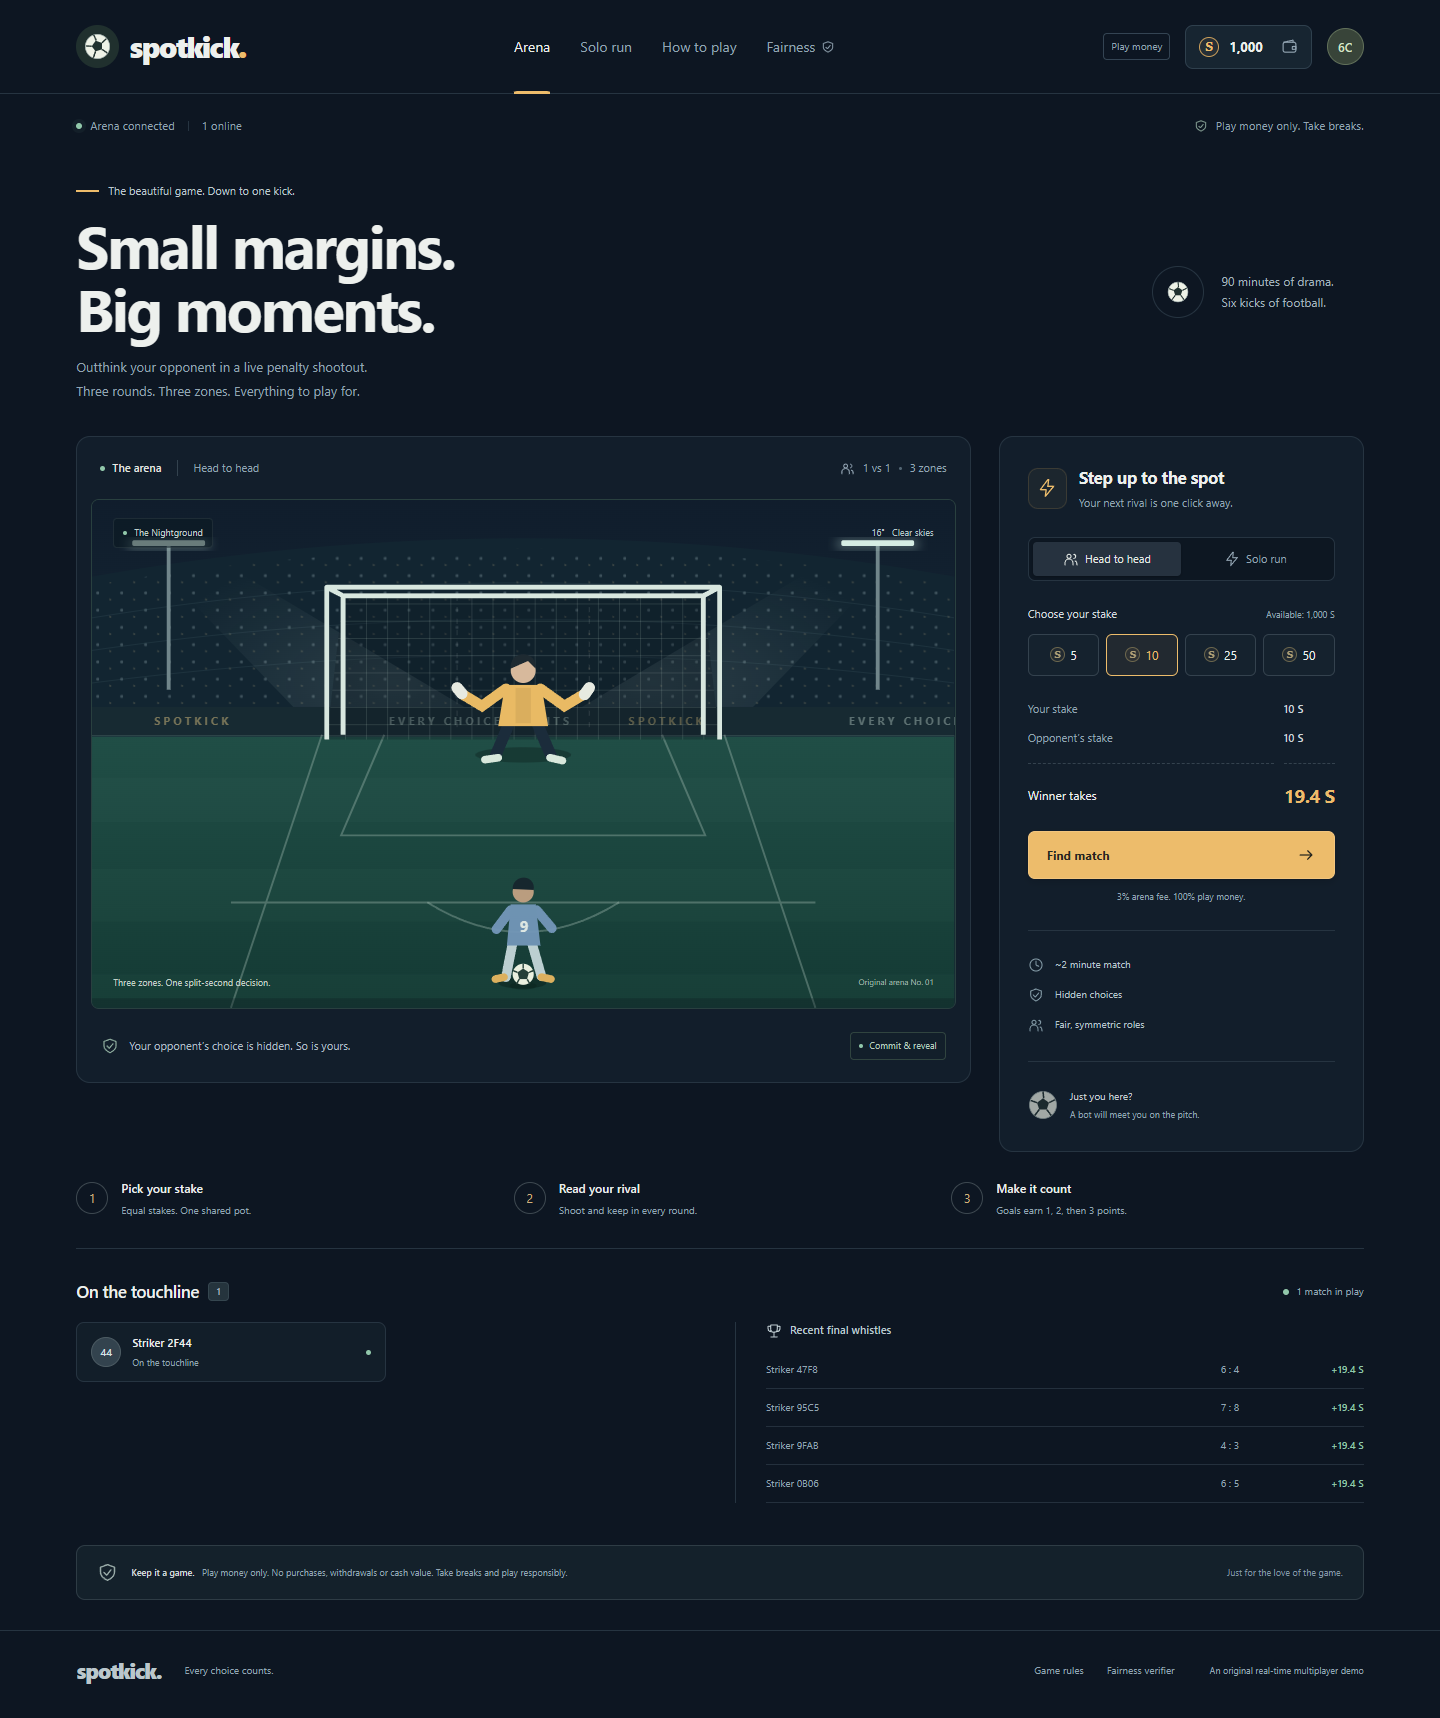
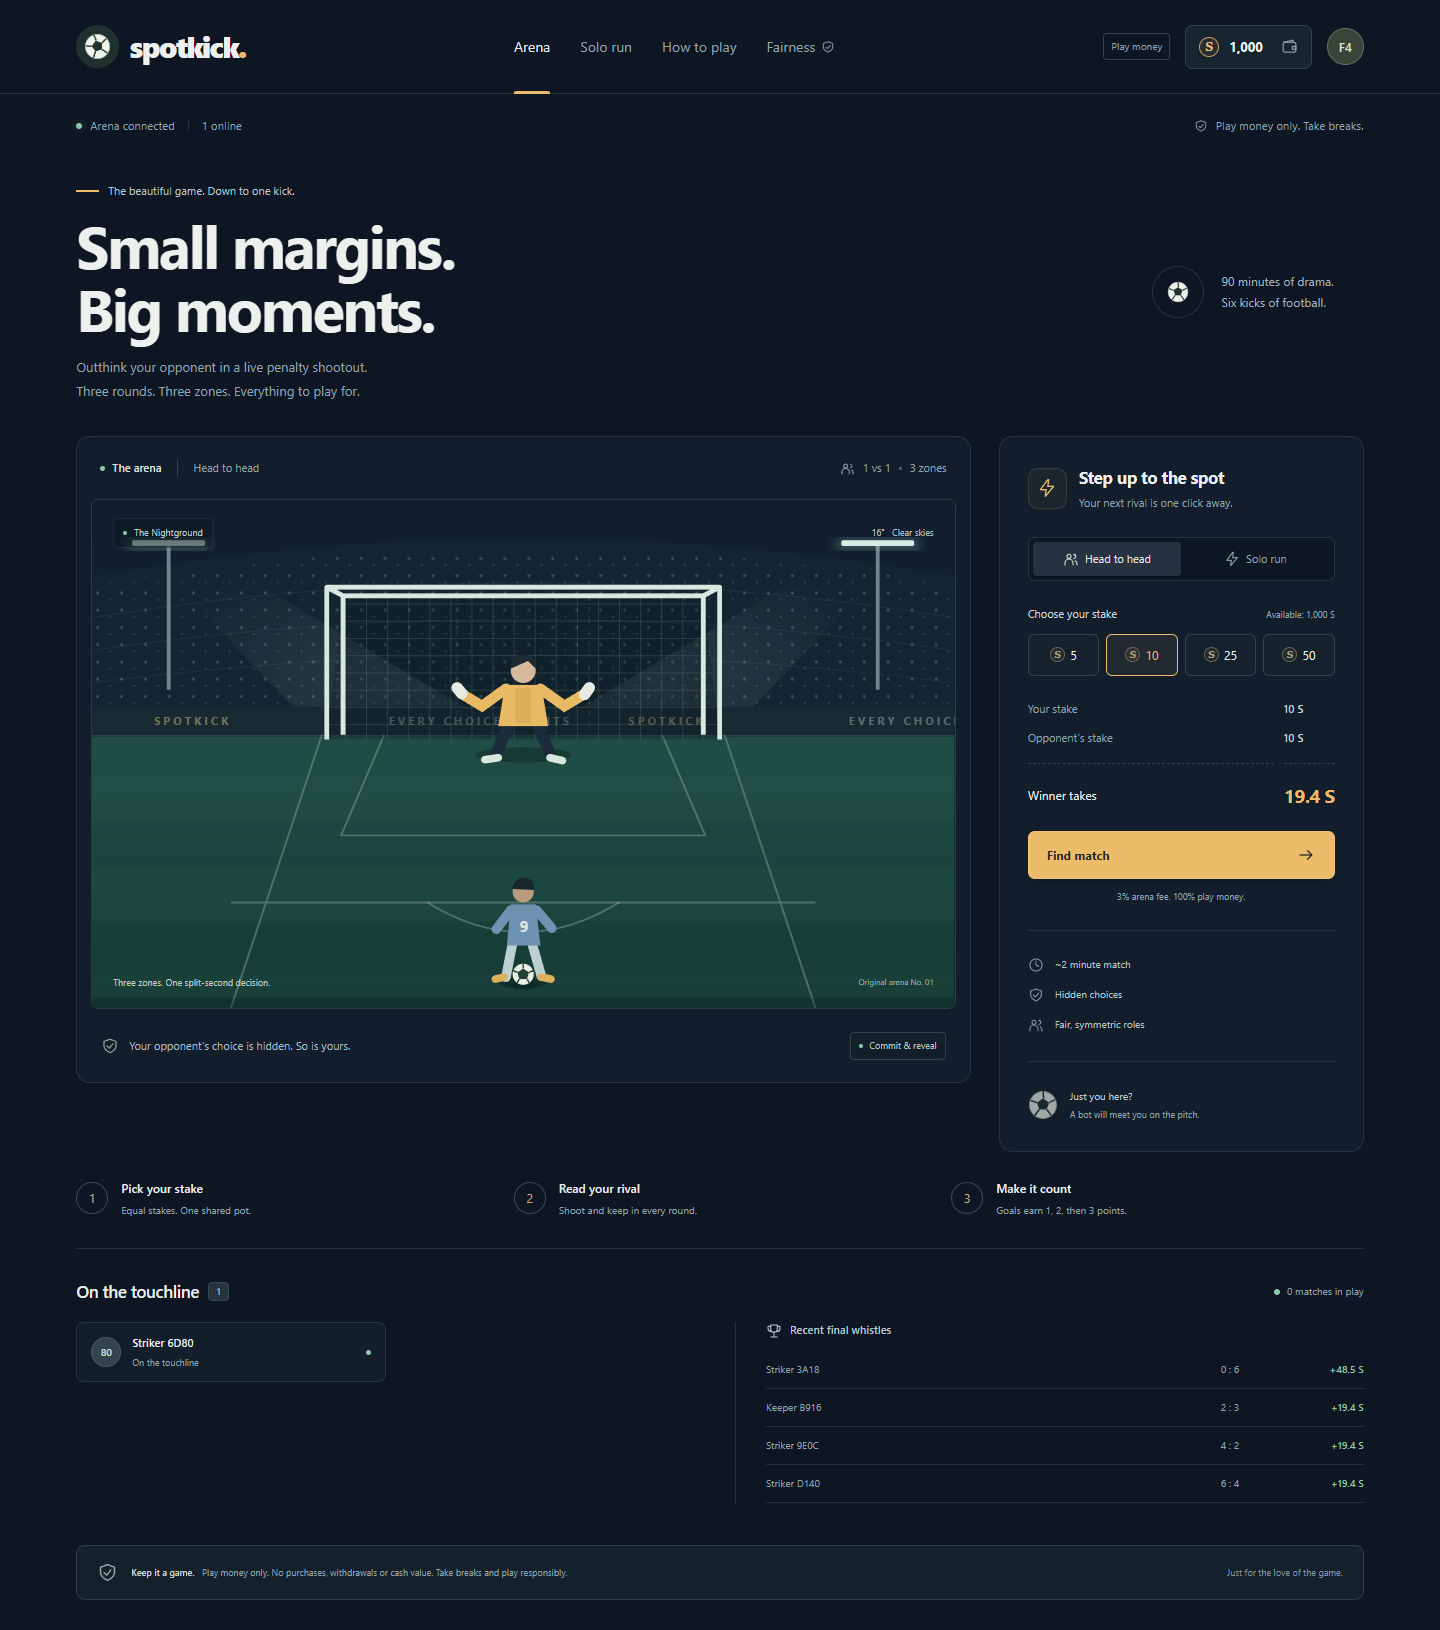
docs: publish Docker acceptance evidence and refreshed portfolio previews

diff --git a/docs/GUIA_PUBLICACION.md b/docs/GUIA_PUBLICACION.md
@@ -1,6 +1,6 @@
 # SpotKick: pasos para validar y publicar la demo del portfolio
 
-Esta guía está escrita para PowerShell en Windows y el repositorio entregado. Incluye acciones que debes ejecutar tú; no afirma que Docker, el despliegue o GitHub Actions ya se hayan validado.
+Esta guía está escrita para PowerShell en Windows y el repositorio entregado. El build y las pruebas locales con Docker ya se han ejecutado; consulta los resultados en [VERIFICATION.md](VERIFICATION.md). El despliegue público y GitHub Actions remoto siguen pendientes.
 
 El objetivo es una demo que un equipo de ingeniería pueda abrir, jugar y revisar. El orden es: entorno reproducible → pruebas automáticas → pruebas manuales → repositorio público/CI → despliegue → presentación.
 
@@ -64,7 +64,9 @@ pnpm exec playwright install chromium
 
 ## 3. Arranca una instalación Docker separada
 
-He incluido `compose.acceptance.yaml`. Usa puertos **3100/3101**, un nombre de proyecto propio y volúmenes independientes de la demo normal. No modifica los puertos 3000/3001 del Compose original. La API secundaria del perfil de carga usa 3102.
+He incluido `compose.acceptance.yaml`. Usa puertos **3180/3101**, un nombre de proyecto propio y volúmenes independientes de la demo normal. No modifica los puertos 3000/3001 del Compose original. La API secundaria del perfil de carga usa 3102.
+
+La web usa 3180 para evitar el servicio que ya ocupa 3100 en esta máquina. Abre exactamente `http://127.0.0.1:3180`, el origen permitido por CORS. Si cambias el puerto, configura también `SPOTKICK_WEB_PORT` y `SPOTKICK_WEB_ORIGIN` con el mismo origen y vuelve a crear los servicios.
 
 En la misma ventana de PowerShell:
 
@@ -113,9 +115,9 @@ Comprueba:
 Después:
 
 ```powershell
-Invoke-RestMethod 'http://localhost:3101/health'
-(Invoke-WebRequest 'http://localhost:3100' -Method Head).StatusCode
-Start-Process 'http://localhost:3100'
+Invoke-RestMethod 'http://127.0.0.1:3101/health'
+(Invoke-WebRequest 'http://127.0.0.1:3180' -Method Head).StatusCode
+Start-Process 'http://127.0.0.1:3180'
 ```
 
 **Resultado esperado:** health devuelve `ok: true`, la web responde 200 y el navegador conecta al arena. Si falla un puerto, identifica qué aplicación lo ocupa; no cierres procesos que no hayas identificado.
@@ -128,7 +130,7 @@ docker compose logs --follow api web
 
 Usa una segunda terminal con las variables de Compose repetidas. Ctrl+C sale del seguimiento de logs; los contenedores iniciados con `-d` siguen funcionando.
 
-**Punto de control:** aquí validas por primera vez el empaquetado Linux/Docker, que estaba pendiente. La preview nativa de Windows por sí sola no demuestra que estas imágenes funcionen.
+**Punto de control:** esto valida el empaquetado Linux/Docker en tu instalación. Las imágenes, migraciones y arranque ya se probaron localmente el 6 de noviembre de 2026; repetirlo en el host final sigue siendo parte de la publicación.
 
 ## 4. Ejecuta las comprobaciones automáticas
 
@@ -187,17 +189,19 @@ Un test que falla por conexión, timeout o falta de recursos **no** cuenta como 
 Mantén la API/web de aceptación en marcha y configura el navegador de prueba:
 
 ```powershell
-$env:WEB_URL = 'http://localhost:3100'
+$env:WEB_URL = 'http://127.0.0.1:3180'
+$env:API_URL = 'http://127.0.0.1:3101'
 Remove-Item Env:PLAYWRIGHT_CHANNEL -ErrorAction SilentlyContinue
 pnpm test:e2e
 ```
 
 Eliminar esa variable solo selecciona el Chromium que acabas de instalar. No borra archivos. Si prefieres Chrome instalado, puedes usar `$env:PLAYWRIGHT_CHANNEL = 'chrome'`.
 
-**Resultado esperado actual:** 2 tests aprobados:
+**Resultado esperado actual:** 3 tests aprobados:
 
 1. Partida completa contra bot, recarga, verificación del transcript, saldo liquidado y journal.
 2. Disparo de solo, fin de sesión/cash-out cuando corresponde y verificación en navegador.
+3. PvP con dos invitados autenticados (navegador y cliente HTTP): compromiso pendiente conservado tras recarga, seis intercambios, pago de 48,50 S y saldos de ambos participantes.
 
 No ejecutes k6 ni pongas otros humanos en cola mientras se prueba el bot: podrían emparejarse con el invitado del test. La duración varía por muerte súbita.
 
@@ -415,7 +419,7 @@ La configuración de aceptación eleva el límite de creación de invitados solo
 
 ```powershell
 New-Item -ItemType Directory -Force test-results | Out-Null
-k6 run -e API_URL=http://localhost:3101 -e VUS=4 -e DURATION=1s --summary-export test-results/k6-smoke.json tests/load/matches.js
+k6 run -e API_URL=http://127.0.0.1:3101 -e VUS=4 -e DURATION=1s --summary-export test-results/k6-smoke.json tests/load/matches.js
 ```
 
 `DURATION=1s` inicia las iteraciones durante un segundo; la finalización de partidos continúa durante el periodo de gracia. No significa que una partida dure un segundo.
@@ -429,13 +433,13 @@ En la terminal con las variables Compose configuradas:
 ```powershell
 docker compose --profile load up -d --build api2
 docker compose --profile load ps
-Invoke-RestMethod 'http://localhost:3102/health'
+Invoke-RestMethod 'http://127.0.0.1:3102/health'
 ```
 
 Después:
 
 ```powershell
-k6 run -e API_URLS=http://localhost:3101,http://localhost:3102 -e VUS=12 -e DURATION=1s --summary-export test-results/k6-two-apis.json tests/load/matches.js
+k6 run -e API_URLS=http://127.0.0.1:3101,http://127.0.0.1:3102 -e VUS=12 -e DURATION=1s --summary-export test-results/k6-two-apis.json tests/load/matches.js
 ```
 
 **Esperado:** los doce jugadores completan y cada wallet coincide con su liquidación. Como los clientes se reparten entre instancias, esto ejercita la coordinación compartida y los broadcasts mediante Redis.
@@ -453,7 +457,7 @@ Ese p95 mide el partido completo, con animación y muerte súbita. No lo publiqu
 Si los smokes pasan, prueba diez jugadores durante un minuto:
 
 ```powershell
-k6 run -e API_URLS=http://localhost:3101,http://localhost:3102 -e VUS=10 -e DURATION=1m --summary-export test-results/k6-one-minute.json tests/load/matches.js
+k6 run -e API_URLS=http://127.0.0.1:3101,http://127.0.0.1:3102 -e VUS=10 -e DURATION=1m --summary-export test-results/k6-one-minute.json tests/load/matches.js
 ```
 
 En otra terminal con el mismo contexto Compose:

diff --git a/docs/VERIFICATION.md b/docs/VERIFICATION.md
@@ -1,6 +1,6 @@
 # Verification evidence
 
-Verified locally on 5 November 2026. These are executed checks, rather than an estimate of production capacity.
+Verified locally on 5–6 November 2026. These are executed checks, rather than an estimate of production capacity.
 
 | Check | Result |
 |---|---|
@@ -16,15 +16,14 @@ Verified locally on 5 November 2026. These are executed checks, rather than an e
 | Browser rendering | Desktop and mobile captures; no page JavaScript errors or horizontal overflow at 390px |
 | Runtime logs after final startup/load | No API runtime errors |
 | `git diff --check` | Passed |
-| Acceptance Compose configuration | Official standalone Compose 5.7.0 parsed both files; replacement ports 3100/3101/3102, load profile and browser API build URL checked. Containers not started. |
+| Docker acceptance | API/web production images built; migrations exited 0; PostgreSQL, Redis and both API instances healthy; web HTTP 200 on 127.0.0.1:3180 |
 
 The load figures include complete match duration, including animation pauses and occasional sudden death. They are small smoke runs on one workstation, not a saturation benchmark or a latency SLA. JSON summaries are saved as [single-instance results](load-smoke.json) and [two-instance results](load-two-instances.json).
 
-Local execution used Node 24.17, PostgreSQL 18 and a Redis 8.10 Windows build in an isolated workspace. Docker/CI target Node 22, PostgreSQL 17 and Redis 7.4; the used database, crypto and adapter features are compatible, but those container runtimes have not been executed locally.
+Initial native execution used Node 24.17, PostgreSQL 18 and Redis 8.10. On 6 November, the production Docker images were built and run with Node 22.23.4, PostgreSQL 17 and Redis 7.4.12. All seven unit tests, six real integration tests and three TypeScript checks passed inside the API image. Docker Desktop 4.98.0 / Engine 29.9.2 / WSL 3.0.3 hosted the acceptance stack.
 
 ## Not executed here
 
-- Docker Engine/Desktop is not installed on this host. A standalone Compose CLI was used only to validate configuration. The migration job, multi-stage images and CI image-build step are provided; image builds and `docker compose up --build` still need execution on a Docker host.
 - GitHub Actions has not run remotely; this repository is local and has not been pushed.
 - Sentry instrumentation builds and initializes, with reporting disabled when no DSN is configured. No real event ingestion was tested.
 - A broad accessibility audit, Lighthouse benchmark, network partition test and failover under sustained load have not been performed.
@@ -36,3 +35,14 @@ Local execution used Node 24.17, PostgreSQL 18 and a Redis 8.10 Windows build in
 - [Completed match](preview-match.png)
 
 All screenshots come from the running application with real API/Redis/PostgreSQL interactions. Lobby counts and results reflect actual local test sessions.
+
+## Docker acceptance, 6 November
+
+- Twelve k6 players split across API ports 3101/3102: 12/12 completed, 12/12 wallet assertions passed, all 36 checks passed, zero failed HTTP requests. Complete-match p95 was 15.10 seconds; HTTP request p95 was 1.32 seconds. [Saved summary](load-docker-two-instances.json).
+- An earlier run started before the second API was ready and failed. Its [summary is retained](load-docker-cold-start-failed.json). The script now checks every API health endpoint before starting load. The passing run used healthy services and no simultaneous image build.
+- Browser checks at 360, 390, 768, 1280 and 1440 px found no horizontal overflow. Wallet focus remained within the dialog; Escape closed it. No page JavaScript errors were observed in this audit.
+- Unauthenticated access returned 401; an invalid stake returned 400 without changing the 100,000-unit guest balance. The solo browser verifier rejected an altered hash and accepted the original.
+- An exploratory two-browser PvP test reached a verified 6:0 result with correct payouts but timed out in teardown. A repeat failed guest readiness under workstation contention. The recovery regression now uses one browser and a second authenticated HTTP participant, exercising the same public commit/reveal protocol without the second browser context.
+Final Docker browser suite: **3/3 Playwright tests passed** (bot/reload/ledger/keyboard; browser plus HTTP rival with pending commitment and both payouts; solo/browser verification). The PvP recovery case completed in 16.7 seconds. Desktop and mobile captures were refreshed from the Docker web app with no page errors or horizontal overflow. Final SQL audit: journal sum 0, zero unbalanced transactions, zero negative spendable accounts.
+
+Restart check: restarted only the acceptance API and Redis; the same authenticated guest recovered with its unchanged 100,000-unit balance. This checks process recovery and wallet persistence, not a network-partition or sustained-load failover guarantee.

diff --git a/README.md b/README.md
@@ -209,7 +209,7 @@ On a machine with Chrome installed, `PLAYWRIGHT_CHANNEL=chrome pnpm test:e2e` av
 
 Integration coverage includes **100 concurrent bets against a single wallet**, then **100 concurrent settlement calls including duplicates**. It asserts the exact accepted-bet count, conservation, nonnegative spendable accounts, zero settled escrows and exactly-once payouts. Additional cases exercise database immutability/sealing, invalid reveals, all six exchanges, terminal replays, reconnect snapshots, the Redis bot queue, timeout fallback, refunds, solo reservation, duplicated concurrent shots/cash-outs and independent Node HMAC reproduction.
 
-Playwright plays a full match against a bot, reloads mid-match, verifies the public transcript, checks the final wallet and opens the journal. A second test exercises solo settlement and browser verification. GitHub Actions provisions PostgreSQL/Redis, runs checks and production builds, runs Playwright, and builds both Compose image targets. Failed browser runs upload traces and screenshots.
+Playwright plays a full match against a bot, reloads mid-match, verifies the public transcript, checks the final wallet and opens the journal. A second test exercises solo settlement and browser verification. A third uses a browser and an authenticated HTTP rival to verify pending-commitment recovery, all six exchanges and both settled wallets. GitHub Actions provisions PostgreSQL/Redis, runs checks and production builds, runs Playwright, and builds both Compose image targets. Failed browser runs upload traces and screenshots.
 
 ### k6
 
@@ -258,7 +258,7 @@ This is an engineering MVP. Next work: registered identities and recovery, trans
 
 The API database role currently owns its schema so automatic migrations can run. A hardened deployment should separate migration ownership from a restricted runtime role. Database administrators can always disable triggers; database controls are not protection against the operator itself. Browser tokens use localStorage for demo simplicity; authenticated production would warrant a reviewed session and XSS model.
 
-The Docker images favor understandable source/dependency packaging over minimum size (the API image includes the build workspace). Docker/Compose should be validated on the target host; see [verification evidence](docs/VERIFICATION.md) for what was actually run in this environment.
+The Docker images favor understandable source/dependency packaging over minimum size (the API image includes the build workspace). Production Docker builds and local container acceptance passed; repeat acceptance on the deployment host; see [verification evidence](docs/VERIFICATION.md) for what was actually run in this environment.
 
 ## Layout
 

diff --git a/docs/DEMO.md b/docs/DEMO.md
@@ -4,7 +4,7 @@ Use this walkthrough for a portfolio review, screen recording or interview. Outc
 
 ## Before the walkthrough
 
-Run `docker compose up --build` on a Docker host and open http://localhost:3000. Container execution has not yet been verified on the development workstation; see [verification evidence](VERIFICATION.md). If the local apps are already running, use their existing URL.
+Run `docker compose up --build` on a Docker host and open http://localhost:3000. Production containers have been built and exercised locally; see [verification evidence](VERIFICATION.md). The isolated Windows acceptance stack is at http://127.0.0.1:3180. If the local apps are already running, use their existing URL.
 
 Use a fresh browser profile for a clean 1,000 S guest wallet. No registration, payment details, cloud key or Sentry account is required. Keep the visible play-money/responsible-gaming notice in view when presenting the product.
 
@@ -67,7 +67,7 @@ Open two independent browser profiles, choose the same stake, and queue both wit
 - [x] Bot fallback for reviewers arriving alone.
 - [x] Visible play-money and responsible-gaming notices.
 - [x] Source, architecture diagrams, repeatable test commands and local evidence.
-- [ ] Validate a clean Docker build and startup on the target host.
+- [x] Build production Docker images and validate startup locally. Repeat on the final deployment host.
 - [ ] Publish the repository and obtain a successful remote CI run.
 - [ ] Add a public HTTPS/WSS demo URL and verify it from another device.
 - [ ] Record a short walkthrough from the deployed version.

diff --git a/docs/CASE_STUDY.md b/docs/CASE_STUDY.md
@@ -51,12 +51,12 @@ These mechanisms prove specific consistency properties. They do not prove that a
 ## Executed results
 
 - Seven unit tests and six PostgreSQL/Redis integration tests passed locally.
-- Two Playwright flows passed: full bot match/reload/settlement/transcript and solo settlement/browser verification.
+- Three Playwright flows passed: full bot match/reload/settlement/transcript, pending PvP commitment recovery against an authenticated HTTP rival, and solo settlement/browser verification.
 - A 12-player k6 smoke run split connections across two API processes. All players completed, all wallet checks passed and no HTTP requests failed.
 - The two-process run's p95 complete-match duration was 22.63 seconds. It includes gameplay and is not an API latency measurement or proof of production capacity.
 - API and Next.js production builds and TypeScript checks passed.
 
-See [verification evidence](VERIFICATION.md) and its saved metric summaries for execution details and untested items. Docker execution, remote CI and live Sentry ingestion are not claimed as verified.
+See [verification evidence](VERIFICATION.md) and its saved metric summaries for execution details and untested items. Docker builds, startup and two-instance load passed locally. Remote CI and live Sentry ingestion remain unverified.
 
 ## Source tour
 
